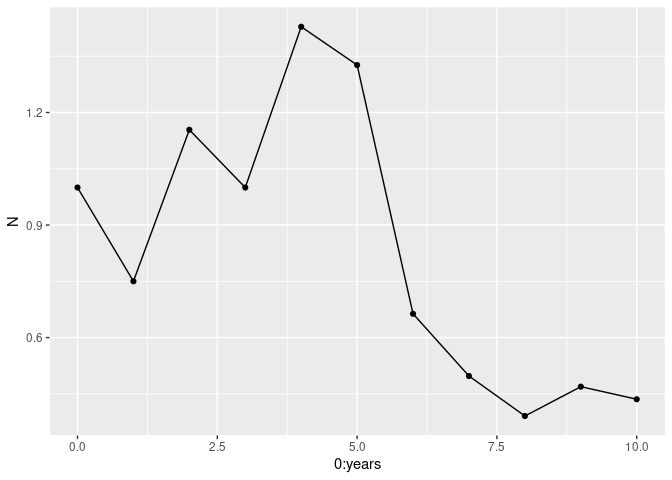
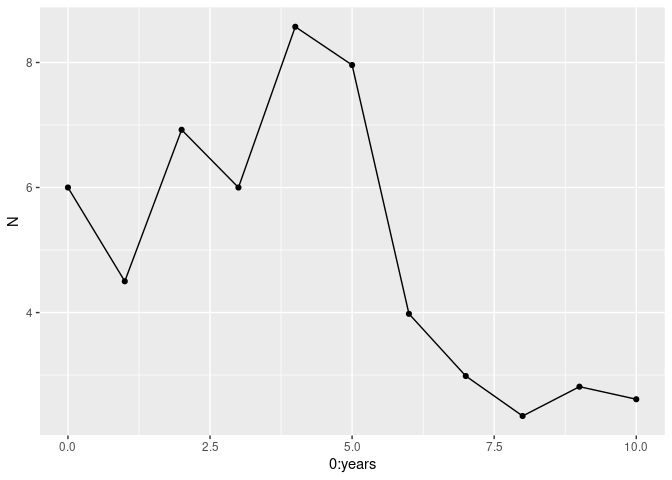
First commit

diff --git a/bbs_dig.md b/bbs_dig.md
@@ -92,8 +92,8 @@ Rt.
 survey_clean <- survey[3:20,]
 years <- 10 # Simulate 10 years into the future
 N <- rep(0, years+1) 
-# Baseline the initial population
-N[1] <- 1 
+# Baseline the initial population given the population from 2022 = 6
+N[1] <- 6 
 
 # Make sequence pseudo random
 set.seed(42)
@@ -145,17 +145,56 @@ We can run the simulation function multiple times
 
 ``` r
 # specify the number of simulations and for how long
-sims=10; years=10
+sims=10000
+years=10
+initialCount = 6
 
 # make the randomizations repeatable
 set.seed(3)
 obs.R <- survey_clean$Rt
 
 outmat <- replicate(sims,   
-             expr=myForLoop(obs.R=obs.R, years=years, initial.N=1)
+             expr=myForLoop(obs.R=obs.R, years=years, initial.N=initialCount)
                     )
-# Visualise the output
-matplot(0:years, outmat, type="l", log="y")
 ```
 
-![](bbs_dig_files/figure-gfm/unnamed-chunk-8-1.png)<!-- -->
+Now let’s extract the last year of the simulations, and plot a
+distribution of the log of the growth rate.
+
+``` r
+N.2032 <- outmat[11,]
+summary(N.2032)
+```
+
+    ##     Min.  1st Qu.   Median     Mean  3rd Qu.     Max. 
+    ##   0.0376   1.7041   3.6191   6.4451   7.6364 137.4634
+
+``` r
+hist(log10(N.2032))
+```
+
+![](bbs_dig_files/figure-gfm/unnamed-chunk-9-1.png)<!-- --> So what is
+the expected survival probability?
+
+``` r
+persisting <- as.numeric(N.2032 >=1)
+(p <- sum(persisting)/length(persisting))
+```
+
+    ## [1] 0.8719
+
+What is the uncertainty associated with this? We will find an intuitive
+Bayesian answer to the question: What is the probability that the
+Starling would become extinct in this region, due to these inherent
+processes?
+
+``` r
+base <- ggplot() + xlim(0, 1)
+
+base + 
+  geom_function(fun = dbeta, args = list(shape1 = 3, shape = 2)) + 
+  labs(y="Probability density of surviving",
+       x="Probability of surviving (p)")
+```
+
+![](bbs_dig_files/figure-gfm/unnamed-chunk-11-1.png)<!-- -->
